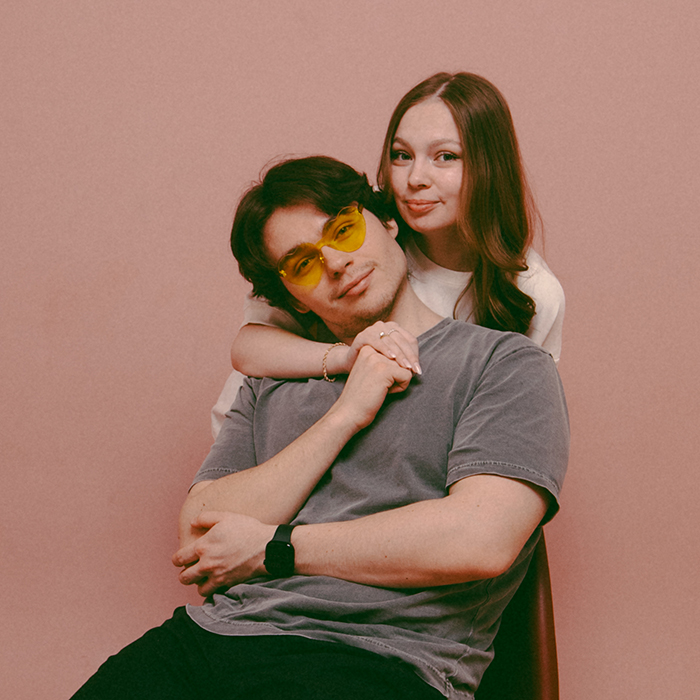
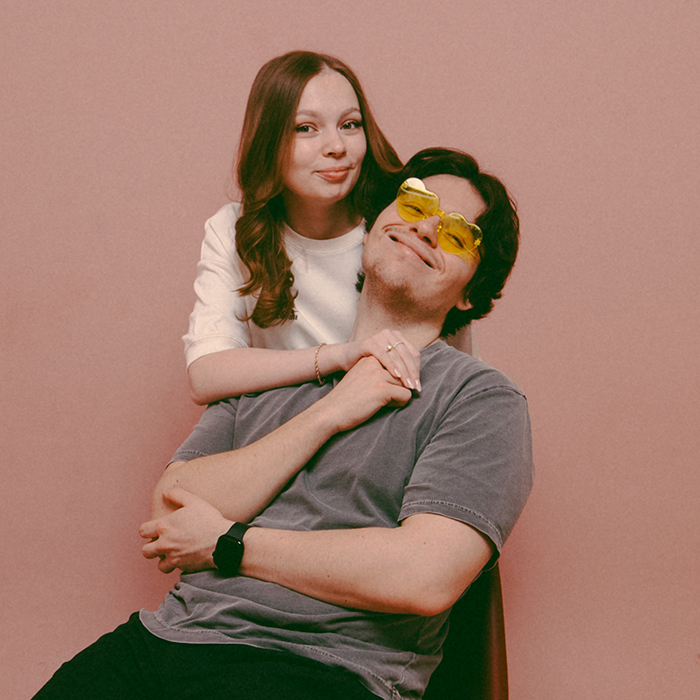
fix: Update color palette and image metadata
Updates the primary accent color for animations to a more fitting rose shade. Also, adjusts the EXIF metadata for `photo2.jpg` to reflect a slightly earlier capture time.

diff --git a/src/App.tsx b/src/App.tsx
@@ -273,7 +273,7 @@ export default function App() {
                     <motion.div 
                       animate={{ opacity: [0.2, 0.5, 0.2], scale: [1, 1.4, 1] }}
                       transition={{ duration: 2, repeat: Infinity }}
-                      className="absolute inset-[-10px] bg-[#721c24] rounded-full -z-10 blur-xl"
+                      className="absolute inset-[-10px] bg-[#c24d67] rounded-full -z-10 blur-xl"
                     />
                   </motion.div>
                 </div>
@@ -534,60 +534,38 @@ export default function App() {
                 Поддержите нас Вашими улыбками и объятиями, а также красивыми нарядами в цветовой гамме мероприятия:
               </p>
 
-              <div className="space-y-12 max-w-[600px] mx-auto">
-                {/* Ladies Palette */}
-                <div className="space-y-4">
-                  <p className="text-[10px] uppercase tracking-[4px] font-bold text-olive/50 font-sans">Для Леди</p>
-                  <div className="grid grid-cols-3 sm:flex sm:flex-wrap justify-center gap-6 justify-items-center">
-                    {[
-                      { color: "#F2D0D8", label: "Пудровый" },
-                      { color: "#C24D67", label: "Роза" },
-                      { color: "#E5D3B3", label: "Шампань" },
-                    ].map((item, idx) => (
-                      <div key={idx} className="flex flex-col items-center gap-3">
-                        <div className="w-14 h-14 rounded-full border-4 border-white shadow-lg" style={{ backgroundColor: item.color }} />
-                        <span className="text-[10px] uppercase font-bold opacity-30 tracking-widest">{item.label}</span>
-                      </div>
-                    ))}
-                  </div>
-                  <div className="grid grid-cols-2 sm:flex sm:flex-wrap justify-center gap-6 justify-items-center max-w-[200px] mx-auto sm:max-w-none">
-                    {[
-                      { color: "#B3C8BA", label: "Мята" },
-                      { color: "#4A5D23", label: "Олива" },
-                    ].map((item, idx) => (
-                      <div key={idx} className="flex flex-col items-center gap-3">
-                        <div className="w-14 h-14 rounded-full border-4 border-white shadow-lg" style={{ backgroundColor: item.color }} />
-                        <span className="text-[10px] uppercase font-bold opacity-30 tracking-widest">{item.label}</span>
-                      </div>
-                    ))}
-                  </div>
+              <div className="max-w-[600px] mx-auto space-y-10">
+                {/* Row 1: Greens */}
+                <div className="flex justify-center gap-8 sm:gap-12">
+                  {[
+                    { color: "#505f1a", label: "Олива" },
+                    { color: "#d6d994", label: "Шалфей" },
+                  ].map((item, idx) => (
+                    <div key={idx} className="flex flex-col items-center gap-3">
+                      <div className="w-14 h-14 rounded-full border-4 border-white shadow-lg" style={{ backgroundColor: item.color }} />
+                      <span className="text-[10px] uppercase font-bold opacity-30 tracking-widest">{item.label}</span>
+                    </div>
+                  ))}
+                </div>
+                
+                {/* Row 2: Pinks */}
+                <div className="flex justify-center gap-8 sm:gap-12">
+                  {[
+                    { color: "#e2878e", label: "Пудра" },
+                    { color: "#e7aeb5", label: "Пион" },
+                  ].map((item, idx) => (
+                    <div key={idx} className="flex flex-col items-center gap-3">
+                      <div className="w-14 h-14 rounded-full border-4 border-white shadow-lg" style={{ backgroundColor: item.color }} />
+                      <span className="text-[10px] uppercase font-bold opacity-30 tracking-widest">{item.label}</span>
+                    </div>
+                  ))}
                 </div>
 
-                {/* Gentlemen Palette */}
-                <div className="space-y-4">
-                  <p className="text-[10px] uppercase tracking-[4px] font-bold text-olive/50 font-sans">Для Джентльменов</p>
-                  <div className="grid grid-cols-3 sm:flex sm:flex-wrap justify-center gap-6 justify-items-center">
-                    {[
-                      { color: "#2D3A15", label: "Хвоя" },
-                      { color: "#8B9474", label: "Шалфей" },
-                      { color: "#5D4037", label: "Кофе" },
-                    ].map((item, idx) => (
-                      <div key={idx} className="flex flex-col items-center gap-3">
-                        <div className="w-14 h-14 rounded-full border-4 border-white shadow-lg" style={{ backgroundColor: item.color }} />
-                        <span className="text-[10px] uppercase font-bold opacity-30 tracking-widest">{item.label}</span>
-                      </div>
-                    ))}
-                  </div>
-                  <div className="grid grid-cols-2 sm:flex sm:flex-wrap justify-center gap-6 justify-items-center max-w-[200px] mx-auto sm:max-w-none">
-                    {[
-                      { color: "#D5B08D", label: "Песочный" },
-                      { color: "#3A3A3A", label: "Графит" },
-                    ].map((item, idx) => (
-                      <div key={idx} className="flex flex-col items-center gap-3">
-                        <div className="w-14 h-14 rounded-full border-4 border-white shadow-lg" style={{ backgroundColor: item.color }} />
-                        <span className="text-[10px] uppercase font-bold opacity-30 tracking-widest">{item.label}</span>
-                      </div>
-                    ))}
+                {/* Row 3: Brown */}
+                <div className="flex justify-center">
+                  <div className="flex flex-col items-center gap-3">
+                    <div className="w-14 h-14 rounded-full border-4 border-white shadow-lg" style={{ backgroundColor: "#674230" }} />
+                    <span className="text-[10px] uppercase font-bold opacity-30 tracking-widest">Шоколад</span>
                   </div>
                 </div>
               </div>
@@ -718,7 +696,7 @@ export default function App() {
             </FadeInWhenVisible>
           </section>
 
-          <WavyLine to="olive" color="#4A5D23" bgColor="transparent" />
+          <WavyLine to="olive" color="#505F1A" bgColor="transparent" />
 
           {/* SECTION 7: RSVP */}
           <section className="bg-olive py-24 px-5 text-cream relative overflow-hidden">
